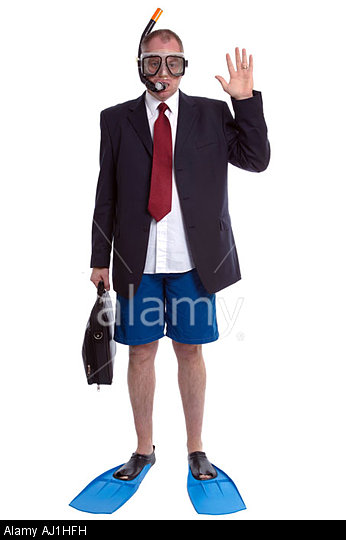
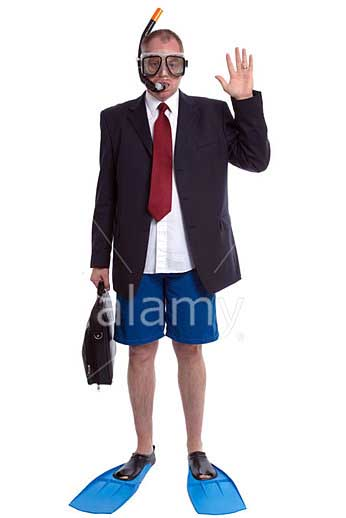
Added scuba man

Changed region(s): [[0.0, 0.0, 1.0, 1.0], [0.289, 0.278, 0.3179, 0.3089]]

diff --git a/css/main.css b/css/main.css
@@ -295,21 +295,29 @@ button:hover {
 }
 
 .intro .col2 {
-    background:url("../img/BPR8KP.jpg") no-repeat top right;
-    padding: 3em 0;
-    background-size: 35%;
+    position: relative;
+    padding: 7% 0;
+}
+
+.intro .col2 img {
+    width: 9em;
+    position: absolute;
+    top: 2%;
+    right: 0;
 }
 
 
 .intro .col2 q {
-    font-size: 1em;
-    max-width: 13em;
+    font-size: 1.5em;
+    max-width: 15em;
     display:block;
     margin-top: 0.5em;
     padding: 0.5em 0;
     border-top: 1px dotted #ccc;
     border-bottom: 1px dotted #ccc;
     color:#666;
+    z-index: 1;
+    width: 80%;
 }
 
 

diff --git a/index.html b/index.html
@@ -65,6 +65,7 @@
 
                         <div class="col2">
                             <q>“Tax havens helped me buy a second yacht”</q>
+                            <img src="img/AJ1HFH.jpg" alt="scuba businessman">
                         </div>
                     </div>
                 </section>

diff --git a/css/large.css b/css/large.css
@@ -48,7 +48,7 @@
     }
 
     .intro .col2 q {
-        font-size: 1.25em;
+        font-size: 1.5em;
     }
 
     .three-col li {
